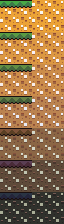
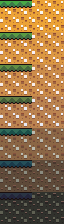
Phlappy Phant: refresh the night grade and keep twilight foliage teal
Take the updated night sheet. Its greens now turn navy and purple, which
the warm-side hue rule sent through red, browning the grass and trees
mid-twilight. Route a wide hue swing through the warm side only when
one end is warm (the dusk golds and corals), so the sky still blushes
while foliage takes the short way through teal.

diff --git a/games/phlappy-phant/docs/architecture.md b/games/phlappy-phant/docs/architecture.md
@@ -10,7 +10,7 @@ Native PHP tests cover the generator, the idle bob, the first flap, gravity and 
 
 ## Viewport-filling rendering
 
-`Render\Scene` draws the 352-unit world at the largest whole-number scale that keeps the playable 320 units in view, anchored to the ground (a taller frame shows more sky), and derives the visible width from the frame, placing the phant at about 28 % of that width (clamped). Labels, the title wordmark and the menus use whole-number scales too, so the bitmap glyphs and tiles are never resampled. It draws GrafxKid's backdrop at twice the world's pixel size, anchored to the ground line, in the bands painted in `art/terrain-parallax.png`, each drifting at its own rate (the generator writes the band edges and rates into the backdrop tileset, and the river shimmer is a two-frame tile animation), then the scrolling ground, scenery on the 8-unit grid between towers, each pair as one tower standing on the ground and the same tower flipped to hang from the sky, built from 8-unit slices whose walls alternate so the dirt pattern runs on from the cap, and the phant, whose rotation follows its vertical velocity and which tumbles when dead. Day and night are hand-graded: the terrain comes as day, dusk/dawn and night sheets, and the generator grades two in-between palettes per leg in OKLCH, sending any hue that swings further than 90° through the warm side of the wheel, so the sky goes blue, mauve, coral, dusk gold, rose, plum, navy instead of greying out halfway. Every terrain tileset stacks the seven palettes; when the score crosses ten the renderer eases along the legs (warming to dusk before darkening, and back through dawn in the morning) and draws each sprite in one palette with the next faded over it, which interpolates every pixel between neighbouring grades. The device clear colour follows each palette's top sky row, and the elephant, which is not in the sheets, takes a light tint per keyframe. The HUD uses the engine bitmap font through a cached glyph layout, every label over its own ink drop shadow so it reads on the day and night skies alike. Menus are drawn over the world rather than on a panel (undimmed on the front page, over an ink dimmer everywhere else): cream pixel text with the same shadow, the selected row on a teal band behind a blinking chevron, informational rows in pale teal, and a themed hint line along the bottom; the scene publishes one hit region per row, which the browser mirrors as accessible buttons. Only the bindings editor, which needs value columns and text entry, uses the shared `MenuRenderer`, restyled to match.
+`Render\Scene` draws the 352-unit world at the largest whole-number scale that keeps the playable 320 units in view, anchored to the ground (a taller frame shows more sky), and derives the visible width from the frame, placing the phant at about 28 % of that width (clamped). Labels, the title wordmark and the menus use whole-number scales too, so the bitmap glyphs and tiles are never resampled. It draws GrafxKid's backdrop at twice the world's pixel size, anchored to the ground line, in the bands painted in `art/terrain-parallax.png`, each drifting at its own rate (the generator writes the band edges and rates into the backdrop tileset, and the river shimmer is a two-frame tile animation), then the scrolling ground, scenery on the 8-unit grid between towers, each pair as one tower standing on the ground and the same tower flipped to hang from the sky, built from 8-unit slices whose walls alternate so the dirt pattern runs on from the cap, and the phant, whose rotation follows its vertical velocity and which tumbles when dead. Day and night are hand-graded: the terrain comes as day, dusk/dawn and night sheets, and the generator grades two in-between palettes per leg in OKLCH, sending any hue that swings further than 90° with a warm end (the dusk golds and corals) through the warm side of the wheel, while foliage turning to night navy takes the short way through teal, so the sky goes blue, mauve, coral, dusk gold, rose, plum, navy instead of greying out halfway. Every terrain tileset stacks the seven palettes; when the score crosses ten the renderer eases along the legs (warming to dusk before darkening, and back through dawn in the morning) and draws each sprite in one palette with the next faded over it, which interpolates every pixel between neighbouring grades. The device clear colour follows each palette's top sky row, and the elephant, which is not in the sheets, takes a light tint per keyframe. The HUD uses the engine bitmap font through a cached glyph layout, every label over its own ink drop shadow so it reads on the day and night skies alike. Menus are drawn over the world rather than on a panel (undimmed on the front page, over an ink dimmer everywhere else): cream pixel text with the same shadow, the selected row on a teal band behind a blinking chevron, informational rows in pale teal, and a themed hint line along the bottom; the scene publishes one hit region per row, which the browser mirrors as accessible buttons. Only the bindings editor, which needs value columns and text entry, uses the shared `MenuRenderer`, restyled to match.
 
 ## Browser boundary
 
